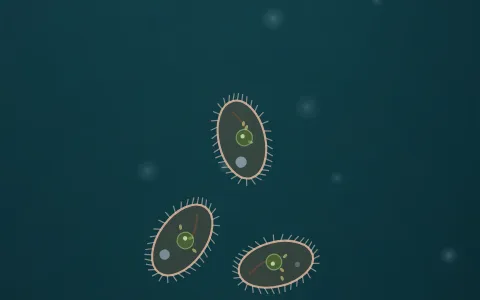
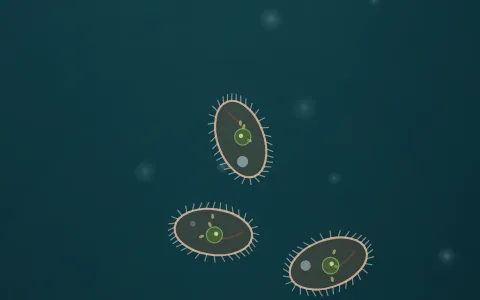
Revert "PETRI_ sizes: bacteria bigger …": the sizes were fine; the tiny bacillus was a cell dropped while the lab was paused, still at its starting size

Changed region(s): [[0.2812, 0.66, 0.7812, 0.99], [0.4375, 0.3, 0.5625, 0.63]]

diff --git a/src/modes/petri/sim.ts b/src/modes/petri/sim.ts
@@ -182,8 +182,6 @@ export interface WorldSave {
 
 const TAU = Math.PI * 2;
 const wrapAngle = (a: number) => Math.atan2(Math.sin(a), Math.cos(a));
-/** the radius a cell grows to: its size, a little less when hungry, a little more when well fed */
-const grownR = (size: number, energy: number, sp: Species) => size * (0.8 + 0.35 * Math.min(1.1, energy / sp.divideAt));
 
 export class World {
   cells: Cell[] = [];
@@ -286,17 +284,15 @@ export class World {
     this.contacts = now;
   }
 
-  /** `grown`: at its full size at once (the lab puts a whole specimen down); otherwise it swells in from small */
   spawnCell(
     sp: Species,
     x: number,
     y: number,
-    o: { energy?: number; gen?: number; hue?: number; size?: number; speed?: number; grown?: boolean } = {},
+    o: { energy?: number; gen?: number; hue?: number; size?: number; speed?: number } = {},
   ): Cell | null {
     if (this.cells.length >= MAX_CELLS || (this.counts.get(kindOf(sp)) ?? 0) >= MAX_PER_SPECIES) return null;
     [x, y] = this.inside(x, y, sp.size + 8);
     const size = o.size ?? sp.size * (0.9 + this.r() * 0.2);
-    const energy = o.energy ?? sp.divideAt * (0.45 + this.r() * 0.15);
     const c: Cell = {
       id: this.nextId++,
       sp,
@@ -306,8 +302,8 @@ export class World {
       vy: 0,
       heading: this.r() * TAU,
       size,
-      r: o.grown ? grownR(size, energy, sp) : size * 0.4,
-      energy,
+      r: size * 0.4,
+      energy: o.energy ?? sp.divideAt * (0.45 + this.r() * 0.15),
       age: 0,
       life: sp.life * (0.8 + this.r() * 0.4),
       gen: o.gen ?? 1,
@@ -781,7 +777,7 @@ export class World {
     const stress = this.stress();
     c.energy -=
       dt * (0.5 + moving * moving * 1.1) * (c.size / 14) * T * (c.sick ? 1.6 : 1) * (1 + stress * 1.8 + Math.min(4, c.touching) * 0.12);
-    const target = grownR(c.size, c.energy, sp);
+    const target = c.size * (0.8 + 0.35 * Math.min(1.1, c.energy / sp.divideAt));
     c.r += (target - c.r) * Math.min(1, dt * 1.5);
 
     // a sick cell does not divide: the meal that poisoned it does not become offspring right away

diff --git a/src/modes/petri/genome.ts b/src/modes/petri/genome.ts
@@ -329,12 +329,11 @@ function analyse(toks: Token[]): Stats {
   return st;
 }
 
-/** a body's size against the size gene; bacteria are the small ones, but still big enough to make out in the dish */
 const SIZE: Record<Body, number> = {
   amoeba: 1.55,
-  bacillus: 1.1,
-  coccus: 0.9,
-  spirillum: 1.0,
+  bacillus: 0.75,
+  coccus: 0.6,
+  spirillum: 0.75,
   diatom: 1.1,
   ciliate: 1.3,
   flagellate: 0.9,

diff --git a/src/modes/petri/lab/lab.ts b/src/modes/petri/lab/lab.ts
@@ -505,7 +505,7 @@ export class Lab {
     const b = this.canvas.getBoundingClientRect();
     const [x, y] = this.r.toWorld(cx - b.left, cy - b.top);
     if (Math.hypot(x, y) > DISH_R) return;
-    const c = W.spawnCell(sp, x, y, { grown: true });
+    const c = W.spawnCell(sp, x, y);
     if (!c) this.toast(t('labFull'));
     else this.route({ type: 'spawn', x: c.x, y: c.y, sp });
     this.flush();
